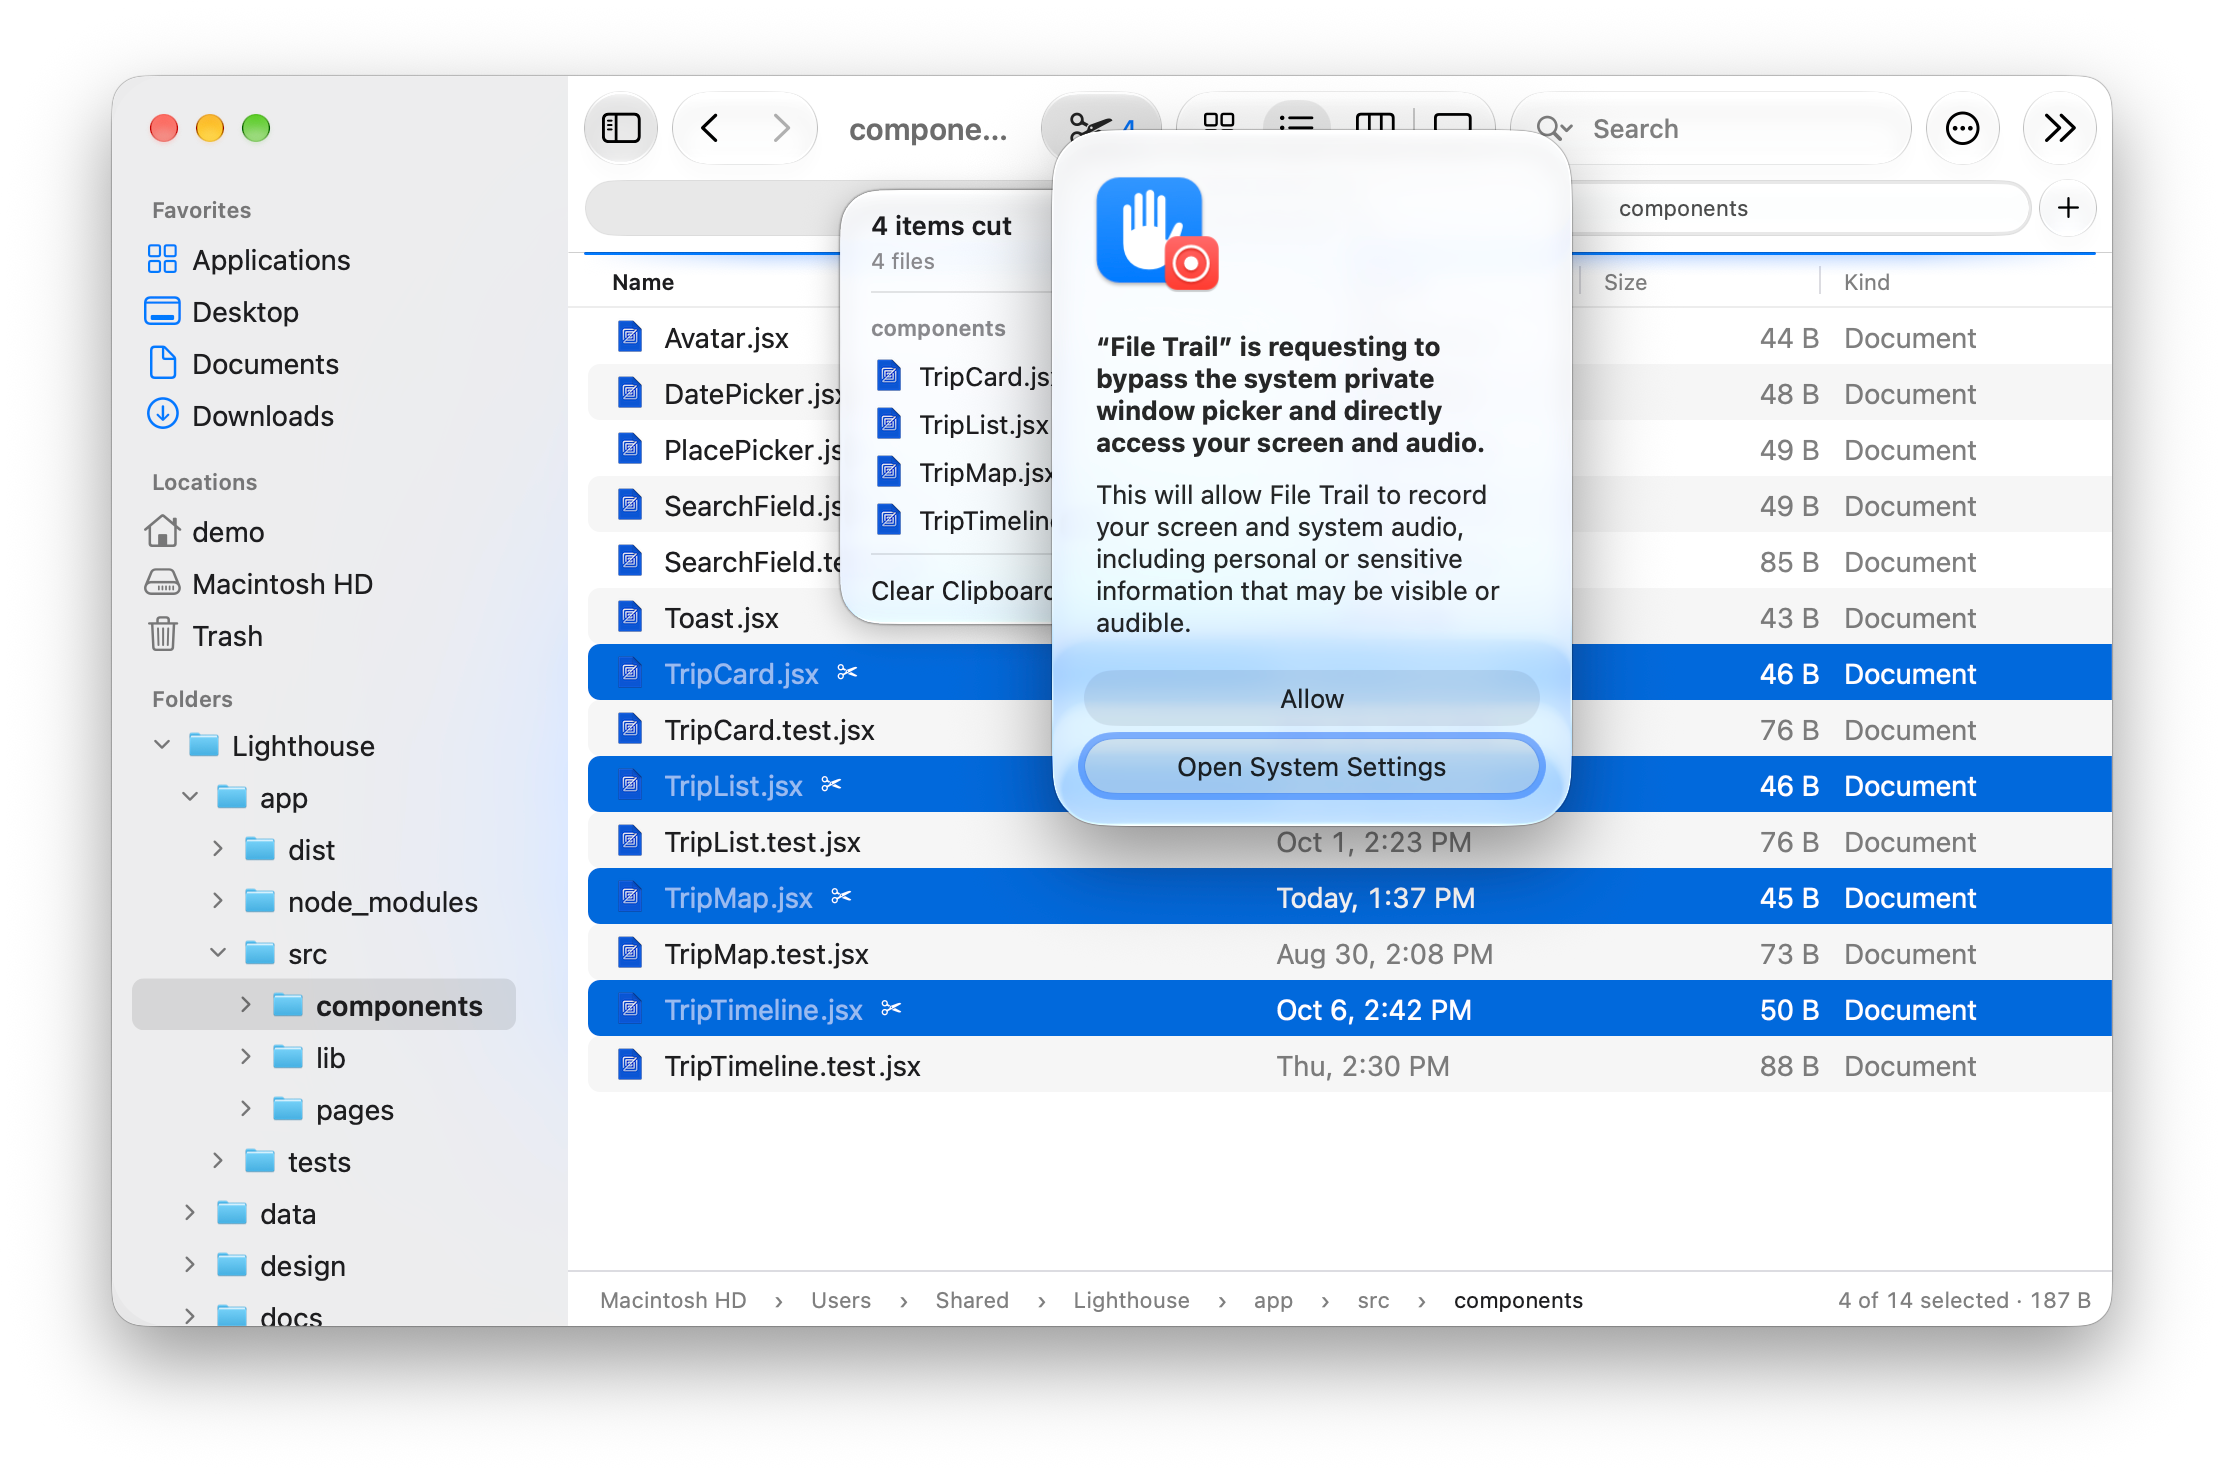
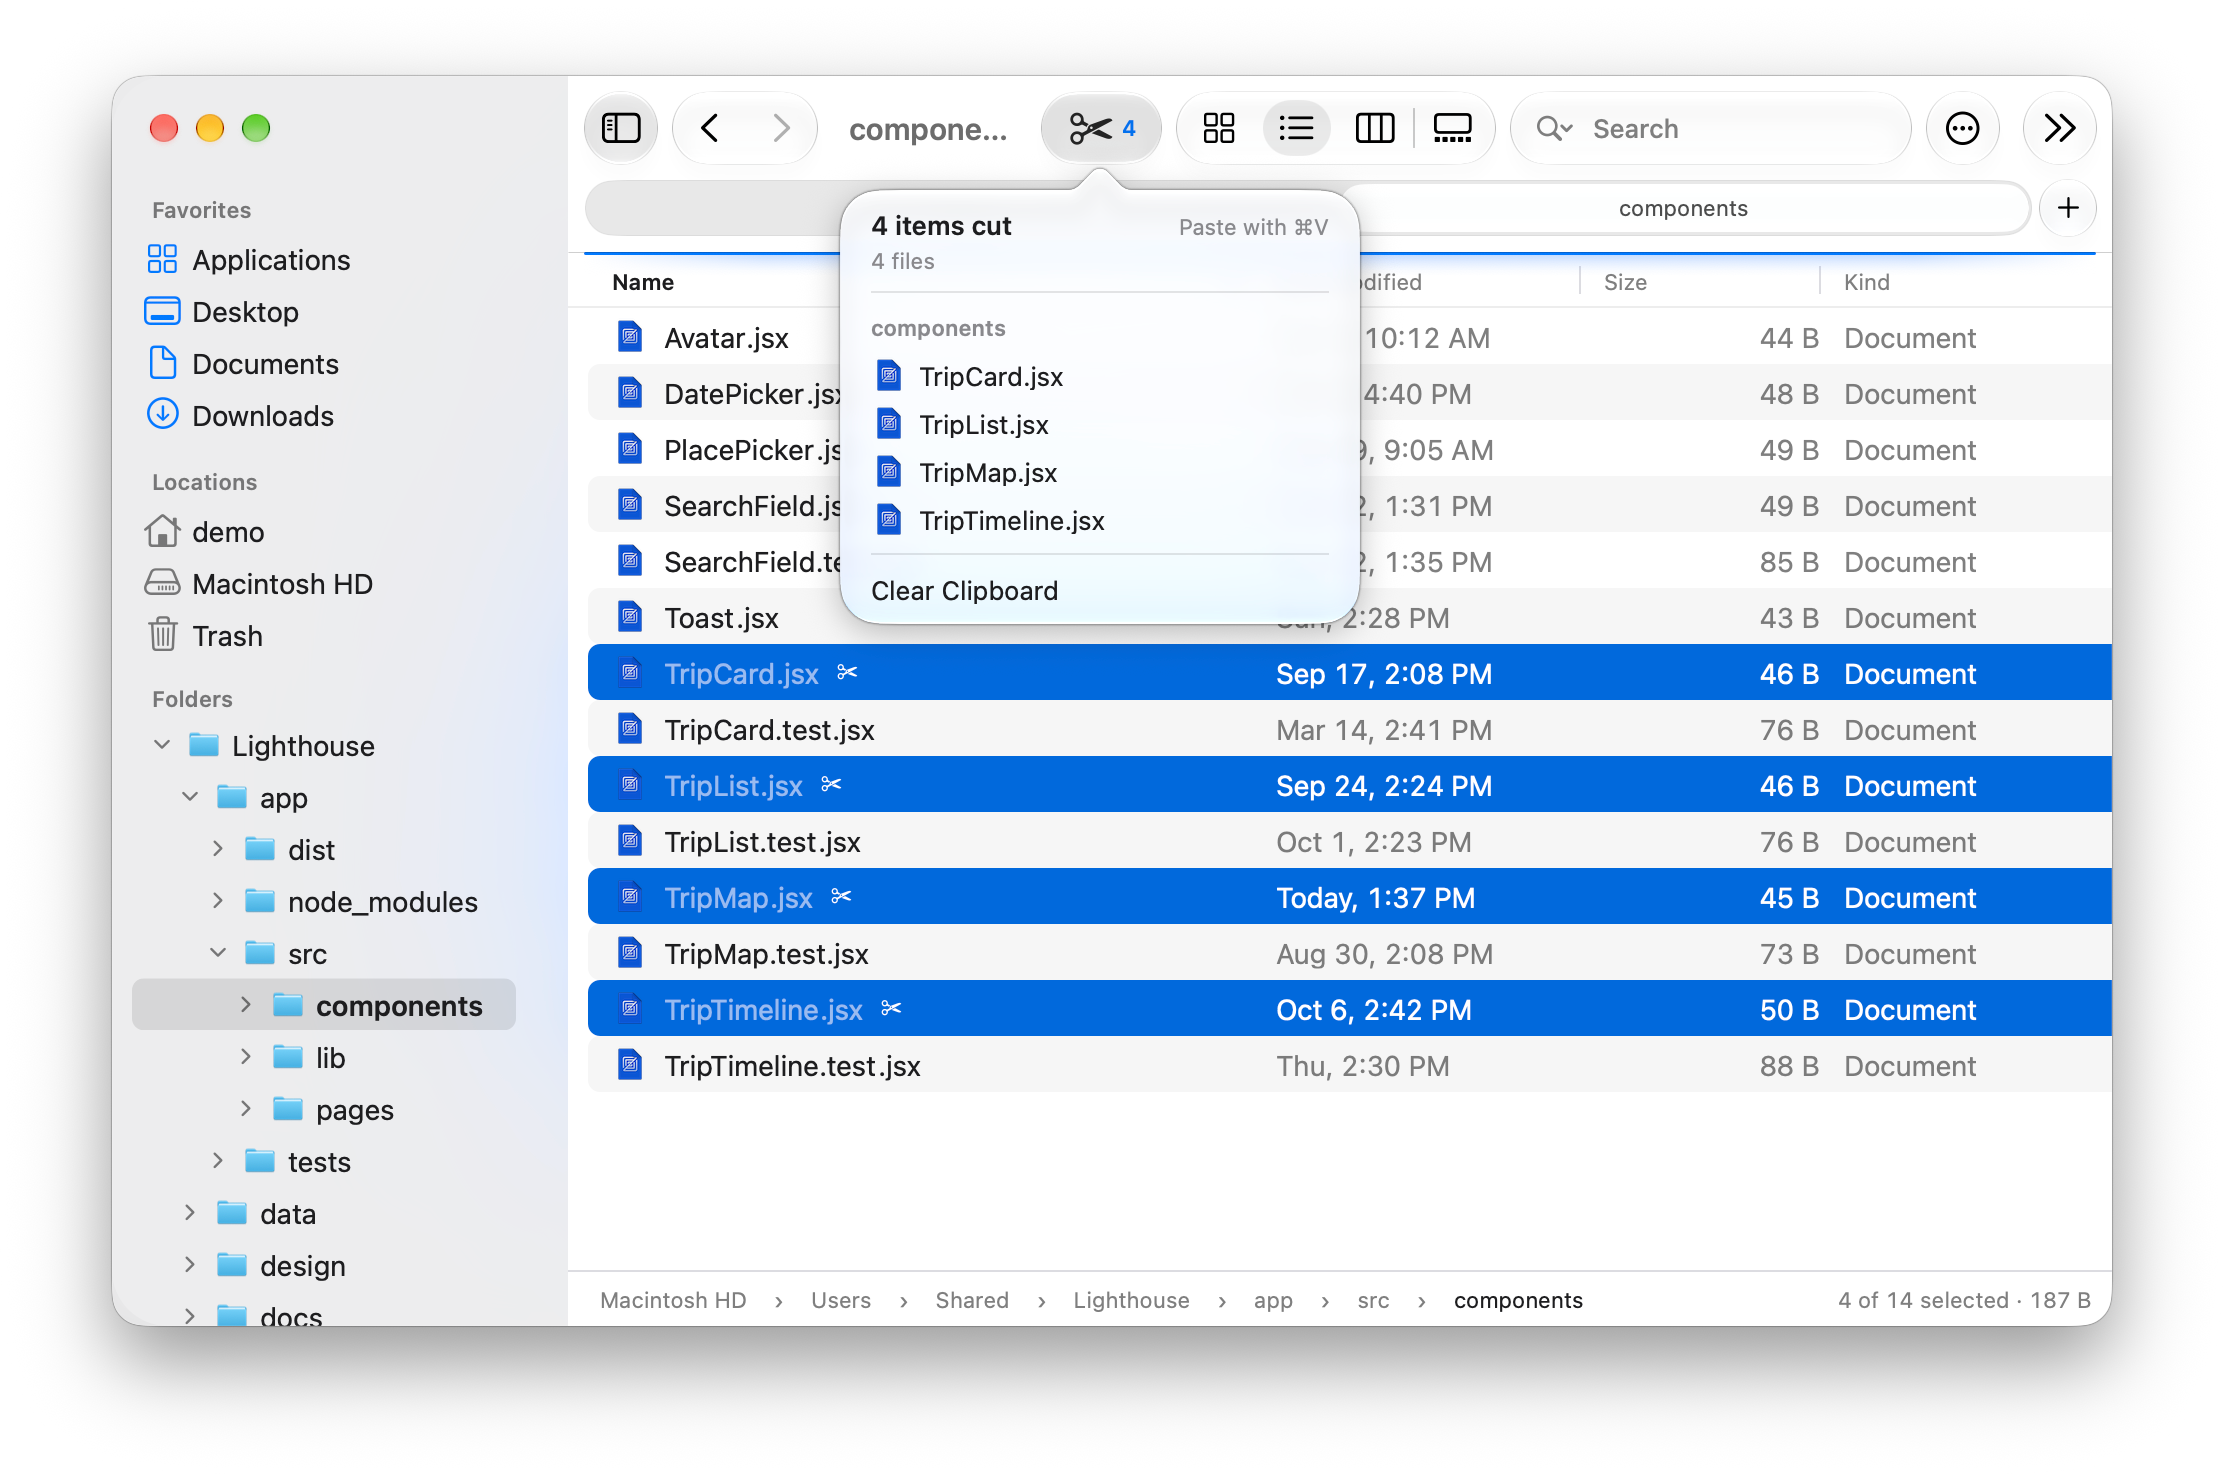
The README's cut-and-paste picture is taken again without macOS's question about recording the screen over it, and a README picture with another app's window over its window waits up to two minutes for that window to go, takes the screen again, and fails the scene if it stays

Changed region(s): [[0.4344, 0.0624, 0.7446, 0.6242]]

diff --git a/Sources/FTAppKit/Automation/WindowShot.swift b/Sources/FTAppKit/Automation/WindowShot.swift
@@ -24,10 +24,57 @@
             }
             let screenFile = file.deletingPathExtension().appendingPathExtension("screen.png")
             defer { try? FileManager.default.removeItem(at: screenFile) }
-            if let failure = captureScreen(of: window, to: screenFile) {
-                return AutomationRunner.Outcome(.failed, failure)
+            // What the screen shows over the window's frame is taken whole, another app's window over it too. macOS asks
+            // whether File Trail may take the screen in a window of its own over this one, while the screen is taken: the
+            // picture waits for the answer and is taken again.
+            for attempt in 1...2 {
+                if let failure = waitUntilUncovered(window) ?? captureScreen(of: window, to: screenFile) {
+                    return AutomationRunner.Outcome(.failed, failure)
+                }
+                guard let covered = coveringWindow(over: window) else { break }
+                if attempt == 2 { return AutomationRunner.Outcome(.failed, covered) }
             }
             return lay(screen: screenFile, over: file, of: window)
+        }
+
+        /// Gives whoever is at the Mac two minutes to answer or close a window over this one.
+        private static func waitUntilUncovered(_ window: NSWindow) -> String? {
+            guard var covered = coveringWindow(over: window) else { return nil }
+            FileHandle.standardError.write(Data("Waiting: \(covered)\n".utf8))
+            let deadline = Date(timeIntervalSinceNow: 120)
+            while Date() < deadline {
+                Thread.sleep(forTimeInterval: 0.5)
+                guard let still = coveringWindow(over: window) else {
+                    // The window closing takes a moment on screen.
+                    Thread.sleep(forTimeInterval: 0.5)
+                    return nil
+                }
+                covered = still
+            }
+            return covered
+        }
+
+        private static func coveringWindow(over window: NSWindow) -> String? {
+            let own = ProcessInfo.processInfo.processIdentifier
+            let height = NSScreen.screens.first?.frame.height ?? 0
+            let frame = window.frame
+            let flipped = CGRect(x: frame.minX, y: height - frame.maxY, width: frame.width, height: frame.height)
+            let above =
+                CGWindowListCopyWindowInfo([.optionOnScreenAboveWindow], CGWindowID(window.windowNumber))
+                as? [[String: Any]] ?? []
+            for info in above {
+                let owner = info[kCGWindowOwnerName as String] as? String ?? "another app"
+                // The Dock's window spans the screen, clear but for the Dock, which the scenes keep clear of.
+                guard info[kCGWindowOwnerPID as String] as? pid_t != own, owner != "Dock",
+                    (info[kCGWindowAlpha as String] as? Double ?? 1) > 0,
+                    let bounds = (info[kCGWindowBounds as String] as? NSDictionary).flatMap({
+                        CGRect(dictionaryRepresentation: $0)
+                    }),
+                    bounds.intersects(flipped)
+                else { continue }
+                return "a window of \(owner) is over the window: answer or close it"
+            }
+            return nil
         }
 
         private static func captureScreen(of window: NSWindow, to file: URL) -> String? {
